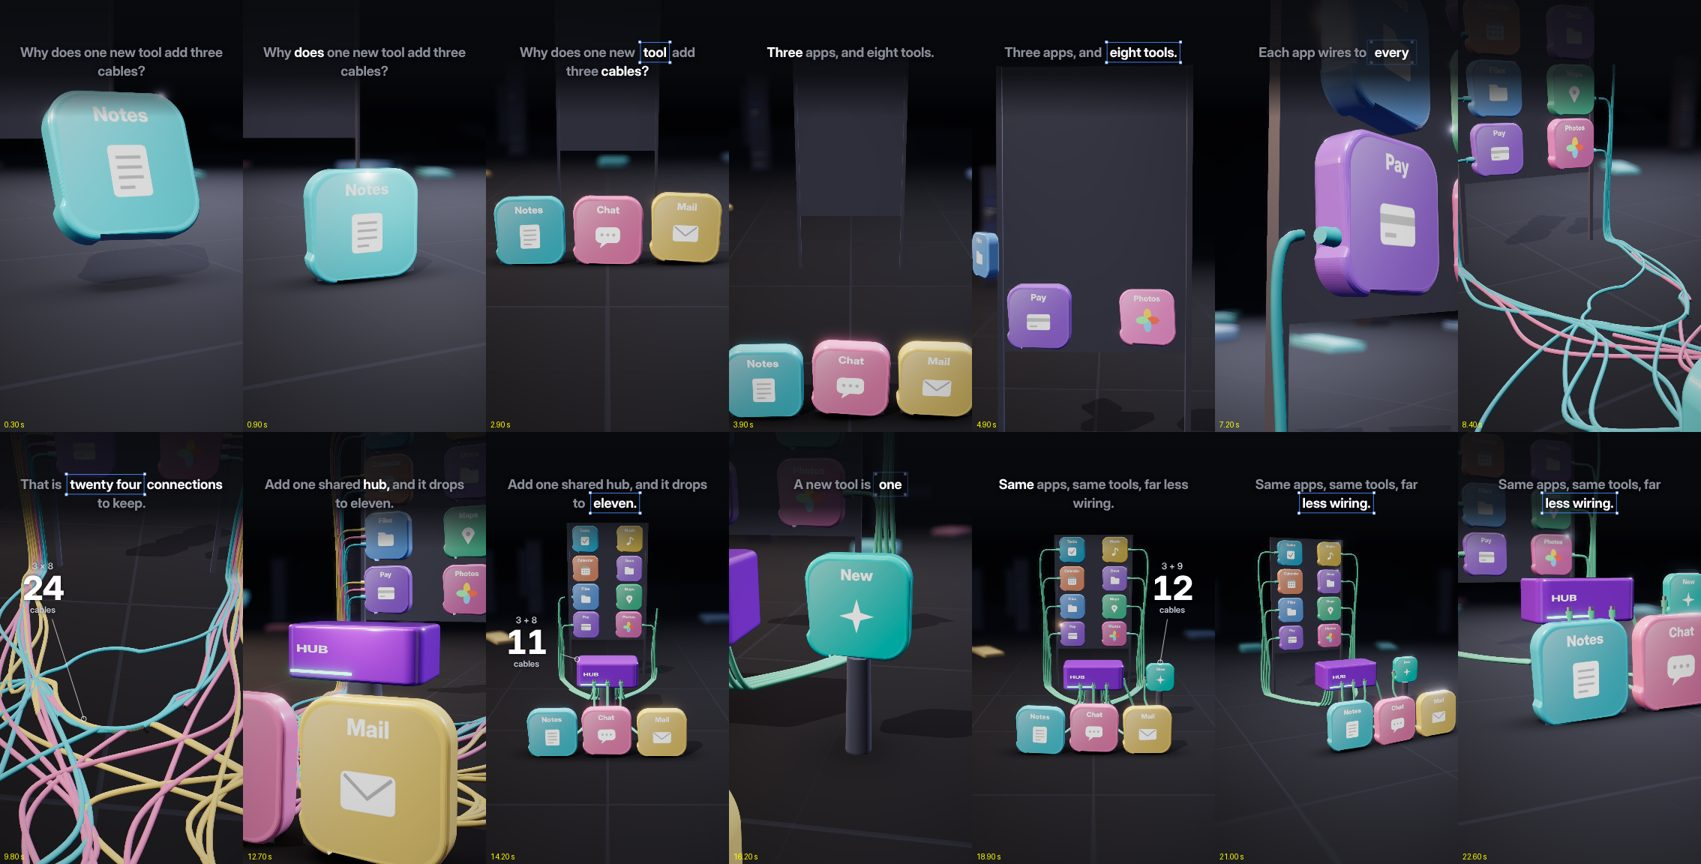
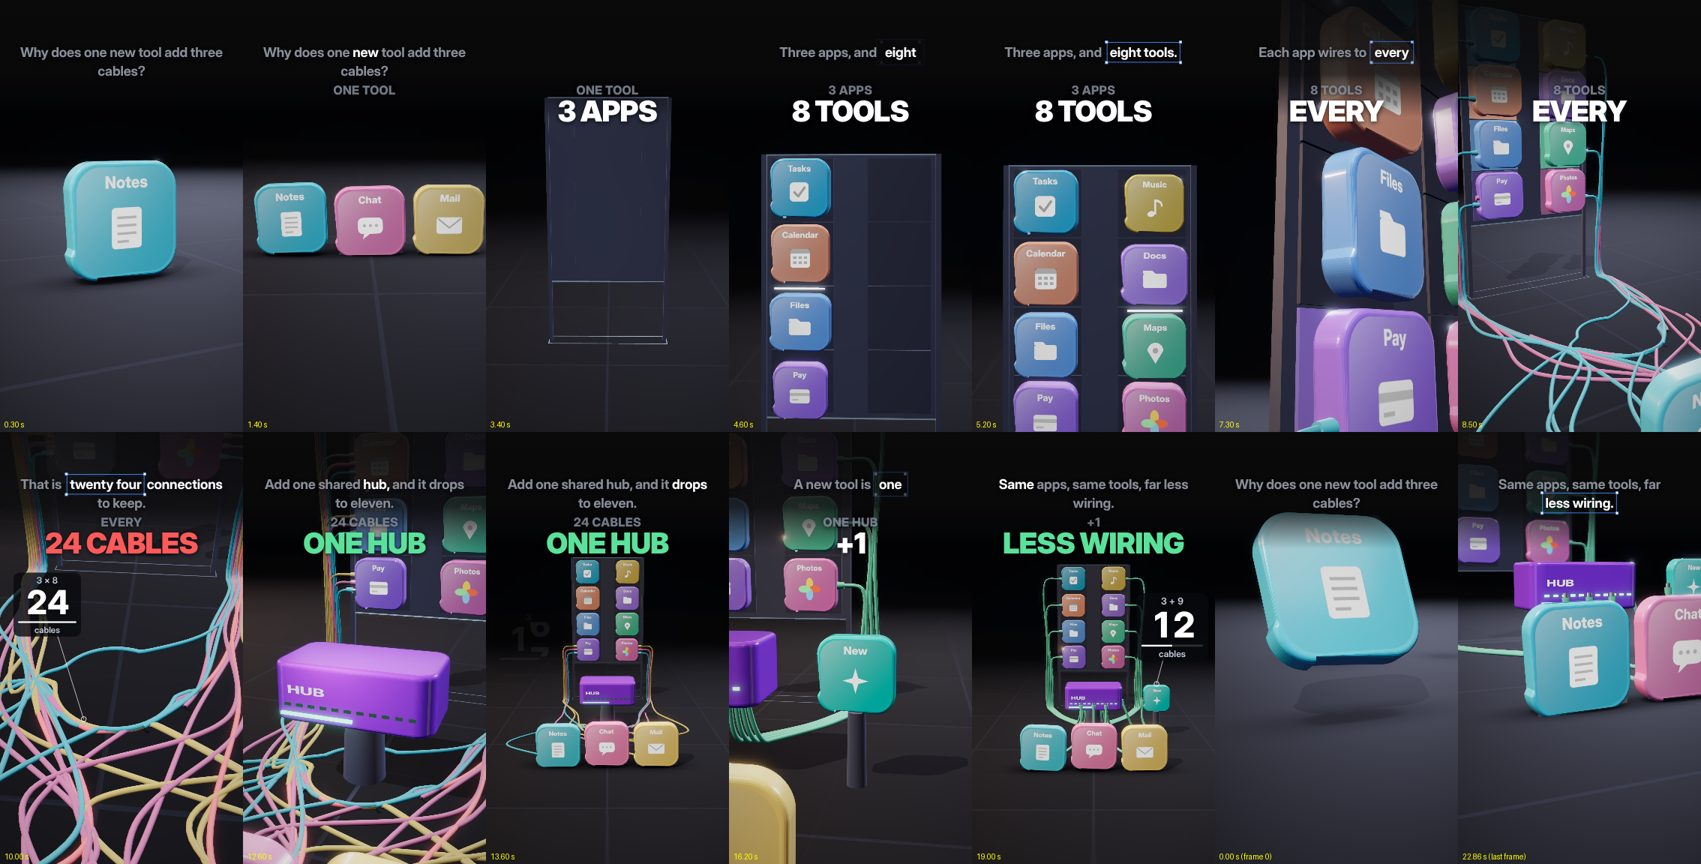
3D kit v7: render 3 plan ready for critic (15 items built, whole-reel checks pass)
Claude-Session: https://claude.ai/code/session_01YGjqKG8fxi32nbkbqv9qv3

diff --git a/techkit/scenes/gold3d-v7.html b/techkit/scenes/gold3d-v7.html
@@ -139,7 +139,7 @@ const SH = [
   { t: W1 + .5, pos: [-5.0, 3.4, -3.8], look: [-1.75, 4.4, -6.45], fov: 46, mv: 'truck-down' },   // the plug in the lower half (the headline above it)      // 5 the first plug clicks in
   { t: CASC[0] + .9, pos: [-6.2, 4.6, 6.6], look: [0, 2.5, -3.4], fov: 52, mv: 'arc' },               // 6 the tangle grows on the floor
   { t: WORST, pos: [.6, 4.6, 2.9], look: [0, .1, -3.2], fov: 56, mv: 'pull-back' },                   // 7 the tangle at its worst (big moment 2), the problem breaks
-  { t: HUB_IN + .45, pos: [2.6, 4.4, 5.0], look: [0, 2.4, -2.2], fov: 50, mv: 'whip', dur: .38 },     // 8 fix 9 (U14): a whip pan to the hub on "hub" (big moment 3)
+  { t: HUB_IN + .45, pos: [2.6, 4.4, 5.0], look: [0, 2.4, -2.2], fov: 50, mv: 'whip', dur: .75 },     // 8 fix 9 (U14): a whip pan to the hub on "hub" (big moment 3)
   { t: COLLAPSE[0] + .8, pos: [0, 7.4, 17.4], look: [0, 3.7, -3.0], fov: 54, mv: 'crane-up', frac: .96, ease: 2 },       // 9 the collapse in one wave, from the high wide (fix 11: Notes whole)
   { t: C.eleven + .7, pos: [-1.4, 6.2, 17.6], look: [0, 3.8, -3.1], fov: 54, mv: 'orbit' },           // 10 the clean picture, 11
   { t: NEW_IN + .05, pos: [3.9, 3.5, 6.4], look: [2.75, 2.2, -1.7], fov: 44, mv: 'truck' },          // 11 the new tool and its one cable

diff --git a/review/tech/showreel-tech-gold3d-v7.md b/review/tech/showreel-tech-gold3d-v7.md
@@ -194,7 +194,7 @@ Stills: review/tech/study-25nov/kit-phase2-v7.jpg (refreshed; scene frames at th
 | 5.3-7.8 | the first cable unrolls along the floor and up the wall, the plug clicks into Pay, its slot base glows | truck down to the plug | "EVERY" |
 | 7.8-9.0 | the other 23 cascade; each slot glows as its cable lands; a quick rattle | high arc over the floor | |
 | 9.0-11.4 | BIG MOMENT 2, the problem breaks: three crossings turn red, the Notes-Pay plug is pulled half out with a spark and a crackle, Pay flickers grey for 0.3 s; a 1 s light sweep runs plug to plug along one cable; the edge light runs | pull back, behind the apps, looking down on the tangle | "24 CABLES" (red); the number spot: "3 x 8" types in, 24 rolls up (red as it lands), a bar fills, "cables" slides up; dark backing, leader to the tangle |
-| 11.4-12.9 | BIG MOMENT 3: the hub lands on its pillar (scale overshoot, a low thump), the key light turns from cold blue-grey to warm white over 0.5 s and stays warm, a ring runs across the floor grid from the pillar, apps and tools lean once, the edge light runs | whip pan (0.38 s) to the hub from just above the apps: the hub sits on its cables with the wall behind (the near apps stay out of the frame) | "ONE HUB" (green) |
+| 11.4-12.9 | BIG MOMENT 3: the hub lands on its pillar (scale overshoot, a low thump), the key light turns from cold blue-grey to warm white over 0.5 s and stays warm, a ring runs across the floor grid from the pillar, apps and tools lean once, the edge light runs | fast whip pan (0.75 s) to the hub from just above the apps: the hub sits on its cables with the wall behind (the near apps stay out of the frame) | "ONE HUB" (green) |
 | 12.9-14.2 | the collapse is one motion: the red cables retract first, then the rest farthest to nearest, 0.04 s apart (a reverse zip); the counter ticks down with each one; then the 11 green cables fan out of the hub together and the hub's 11 LEDs light | crane up to the high wide, with a slow start (the near apps rise into the frame and settle gently) | 24 rolls down to 11 with the bar shrinking, leader to the hub |
 | 13.9-15.1 | a green sweep along the 11 (the before/after rhyme); everything idles | orbit | 11 |
 | 15.1-18.2 | New pops in on its pillar, its one cable | truck to New, from a little further back and higher (Chat and Mail whole at the frame bottom) | "+1" |
@@ -210,4 +210,6 @@ Move types in order: hold, pull back, crane up, dolly in, truck down, arc, pull 
 - The headline itself: critic question 46 (owner, 25 Nov) fails "a big keyword bar at the top"; U12 asks for big headline words. v7 has no bar or band, only the words over the picture. Please confirm this is what U12 meant.
 - The camera ride in the tool cascade is smaller than asked (it would push the top row into the headline).
 - Preflight (placeholder voice): Output QA on the preview 6 pass, 0 fail (warnings: no real media, no subject box, one SHEEN line at 16.9 s); REVIEW items fail because this is a never-posted sample with no mandatory-gate items or direction card (as v5 and v6; scripts/review-gate.mjs allows samples).
+- Local checks on the whole reel at the real cue times (scene frames at 10 fps, no render; 27 Nov): COLOUR pass (no hard background cut; the first pass found two, at 13.1 s and 17.7 s, where the near Chat and Mail tiles left the frame edge in one 0.1 s step after the close hub and New shots: fixed by the hub whip from just above the apps, 0.75 s, a slow-start crane, the New truck a little further back, and neutral blacks for the caption fade, the page and the haze, so the empty background reads dark, not blue); GLOW pass (1.1 % median, worst 1 s 3.5 %); frame change median 7.8, last 4 s 5.7; pale frames 0 of 229; 36 cables, none through the floor or an object; no leader crossing a tile, no number over a cable (9.6, 14.4, 18.9 s).
+- The whip is now 0.75 s (asked: a whip pan); at 0.38 s its frame-edge colour jumped 56 degrees in one step (Output QA COLOUR fails over 45).
 - Moved to the first real tech reel, as the upgrade critic listed: live app screens, ripple bumps, the rim light, the subtitle word style, the shake, the rack focus. The whip pan has no extra motion blur beyond the render's frame blend.

diff --git a/design/handoff.md b/design/handoff.md
@@ -262,6 +262,7 @@ Phone-width check on a local build, npm run check, merge. Then use it yourself f
 - 26 Nov 23:50 IST, main account critic: v7 render 2 NOT READY, STABLE no: the best 3D sample so far (animation 8, cleanliness 6.5, premium 7.5), but an empty dark wall at 3.9-4.6 s, the 24 sitting on the cables at 9.3-11.4 s and an empty first frame keep it below stable; five exact fixes in review/tech/showreel-tech-gold3d-v7.md. Both v7 renders are used: the owner decides.
 
 - 26 Nov 00:20 IST (27 Nov), owner (via the owner chat): YES to v7 render 3 with the upgrade critic's full RENDER 3 FIX LIST (15 items, review/tech/showreel-tech-gold3d-v7.md "Upgrade critic"), WITH a plan check first: build all 15, refresh the stills sheet and the shot-by-shot plan, write "v7 plan ready for critic" and stop; the main account's probe starts the plan critic; on "PLAN: OK TO RENDER", ONE render 3, Output QA, "v7 ready for critic". Render 3 is the last; then tech restarts with a real reel either way.
+- 27 Nov 01:25 IST, other account: task 10: v7 plan ready for critic (render 3 build). All 15 items of the upgrade critic's RENDER 3 FIX LIST are built; the shot-by-shot plan, how each item is built, and the local checks are in review/tech/showreel-tech-gold3d-v7.md "Render 3 plan"; ONE stills sheet review/tech/study-25nov/kit-phase2-v7.jpg (refreshed; frame 0 and the last frame side by side). Whole reel at the real cue times: COLOUR no cuts, GLOW 1.1 %, no pale frames, no cable through anything, no leader crossing. Open point for the plan critic: in the close shots the big headline words sit over blurred board tiles (the pre-render text check fails there); recommendation: headline words on the wide shots only. STOPPED: render 3 only on "PLAN: OK TO RENDER".
 ---
 
 # History: CLOSED (owner, 22 Nov 2026)

diff --git a/design/handoff-log.md b/design/handoff-log.md
@@ -6,6 +6,11 @@ Every session on either account that changes the repo adds ONE entry at the top,
 Format (at most 6 lines):
 ```
 
+## 2026-11-27 01:25 IST · claude/3d-kit-v7-r3-build + claude/3d-kit-v7-plan-ready · other account: 3D kit v7 render 3 built, plan ready for critic (task 10)
+- Done: the upgrade critic's 15 items built in techkit/scenes/gold3d-v7.html and lib3d.js (W3D.numbers odometer, W3D.headline); plan + checks in review/tech/showreel-tech-gold3d-v7.md "Render 3 plan"; stills refreshed. Fixed two hard colour cuts found locally (hub whip from above the apps, 0.75 s; slow-start crane, camera `ease`; neutral blacks; world3d captions take `scrimRGB`).
+- Left: the plan critic (main account's probe); on "PLAN: OK TO RENDER", ONE render 3 (preview r3), Output QA, "v7 ready for critic". Open point: headline over board tiles in close shots.
+- For the main account: no render was made; render 3 is the last.
+
 ## 2026-11-27 · claude/handoff-v7-r3-yes · owner chat: owner yes to v7 render 3 with a plan check first
 - 15-item render 3 list (upgrade critic, premium re-graded 6.5/6.5/6.5 against the owner's references). Plan + stills critic first (probe starts it), then the last render; tech restarts with a real reel either way.
 
